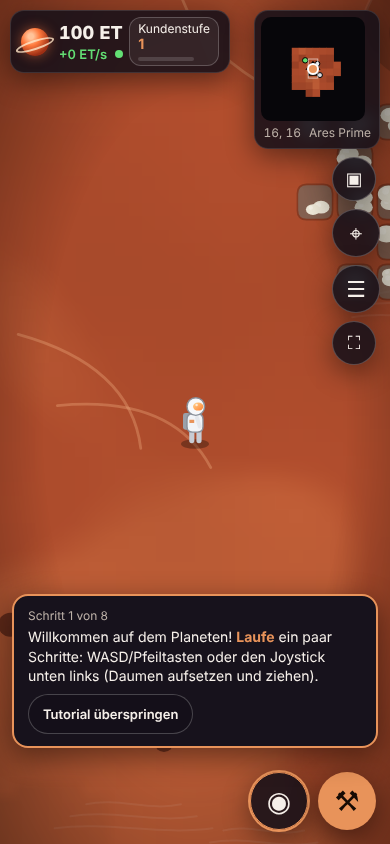
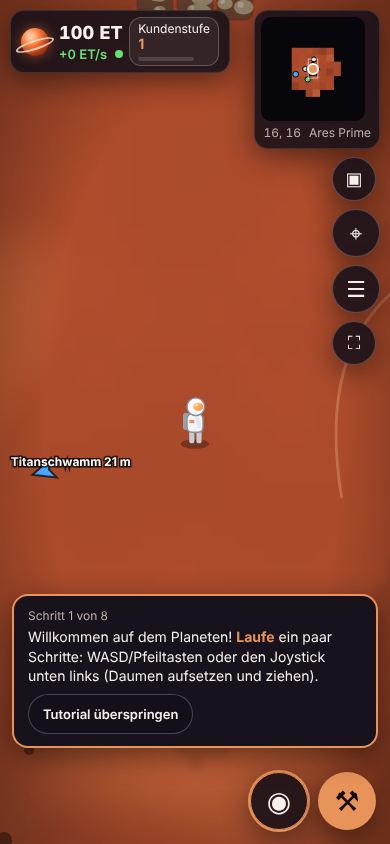
Fix: prismatische Farbe exquisiter Rohstoffe als Hex-Wert
Claude-Session: https://claude.ai/code/session_01D5Y7nwWWPwgZGiZwYox3Ua

diff --git a/index.html b/index.html
@@ -4794,7 +4794,14 @@ const Col = {
   shade(hex, f) { return f >= 0 ? Col.mix(hex, '#ffffff', f) : Col.mix(hex, '#000000', -f); },
   rgba(hex, a) { const c = Col.rgb(hex); return 'rgba(' + c[0] + ',' + c[1] + ',' + c[2] + ',' + a + ')'; },
   hsl(h, s, l) { return 'hsl(' + (h % 360) + ',' + s + '%,' + l + '%)'; },
-  prism(t, off = 0) { return Col.hsl(((t * 90 + off) % 360 + 360) % 360, 90, 72); }
+  // Hex colour (not an hsl() string) so it can be mixed and shaded like every other colour.
+  hslHex(h, s, l) {
+    s /= 100; l /= 100;
+    const k = n => (n + h / 30) % 12, a = s * Math.min(l, 1 - l);
+    const f = n => l - a * Math.max(-1, Math.min(k(n) - 3, 9 - k(n), 1));
+    return Col.hex(f(0) * 255, f(8) * 255, f(4) * 255);
+  },
+  prism(t, off = 0) { return Col.hslHex(Math.round(((t * 90 + off) % 360 + 360) % 360), 90, 72); }
 };
 
 const Sprites = {
@@ -9117,7 +9124,7 @@ const MainLoop = {
 };
 
 // Small handle for automated tests and power users (read-only use recommended).
-window.__AO__ = { App, Game, Grid, World, Build, UI, Render, Economy, Save, Offline, Progression, MainLoop, Menus, MapView, Bot, SelfTest, Actions, DATA, CONFIG };
+window.__AO__ = { Draw, Sprites, FX, Col, Tutorial, App, Game, Grid, World, Build, UI, Render, Economy, Save, Offline, Progression, MainLoop, Menus, MapView, Bot, SelfTest, Actions, DATA, CONFIG };
 MainLoop.boot();
 
 })();

diff --git a/src/app/02_color.js b/src/app/02_color.js
@@ -17,7 +17,14 @@ const Col = {
   shade(hex, f) { return f >= 0 ? Col.mix(hex, '#ffffff', f) : Col.mix(hex, '#000000', -f); },
   rgba(hex, a) { const c = Col.rgb(hex); return 'rgba(' + c[0] + ',' + c[1] + ',' + c[2] + ',' + a + ')'; },
   hsl(h, s, l) { return 'hsl(' + (h % 360) + ',' + s + '%,' + l + '%)'; },
-  prism(t, off = 0) { return Col.hsl(((t * 90 + off) % 360 + 360) % 360, 90, 72); }
+  // Hex colour (not an hsl() string) so it can be mixed and shaded like every other colour.
+  hslHex(h, s, l) {
+    s /= 100; l /= 100;
+    const k = n => (n + h / 30) % 12, a = s * Math.min(l, 1 - l);
+    const f = n => l - a * Math.max(-1, Math.min(k(n) - 3, 9 - k(n), 1));
+    return Col.hex(f(0) * 255, f(8) * 255, f(4) * 255);
+  },
+  prism(t, off = 0) { return Col.hslHex(Math.round(((t * 90 + off) % 360 + 360) % 360), 90, 72); }
 };
 
 const Sprites = {

diff --git a/src/app/99_main.js b/src/app/99_main.js
@@ -316,5 +316,5 @@ const MainLoop = {
 };
 
 // Small handle for automated tests and power users (read-only use recommended).
-window.__AO__ = { App, Game, Grid, World, Build, UI, Render, Economy, Save, Offline, Progression, MainLoop, Menus, MapView, Bot, SelfTest, Actions, DATA, CONFIG };
+window.__AO__ = { Draw, Sprites, FX, Col, Tutorial, App, Game, Grid, World, Build, UI, Render, Economy, Save, Offline, Progression, MainLoop, Menus, MapView, Bot, SelfTest, Actions, DATA, CONFIG };
 MainLoop.boot();
